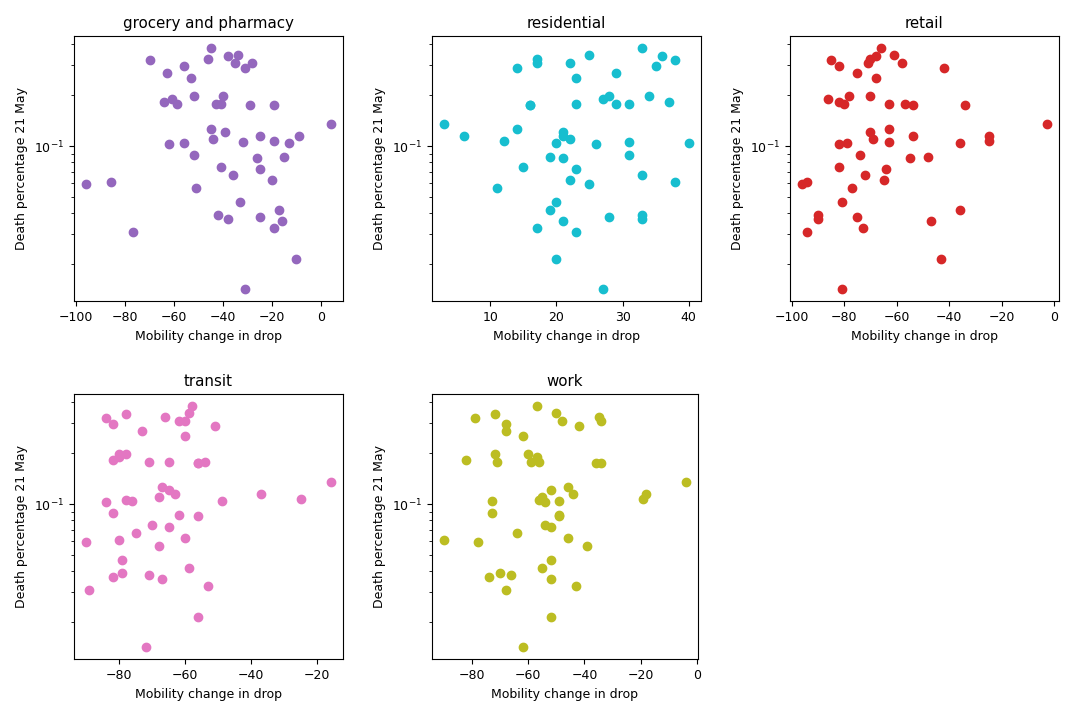
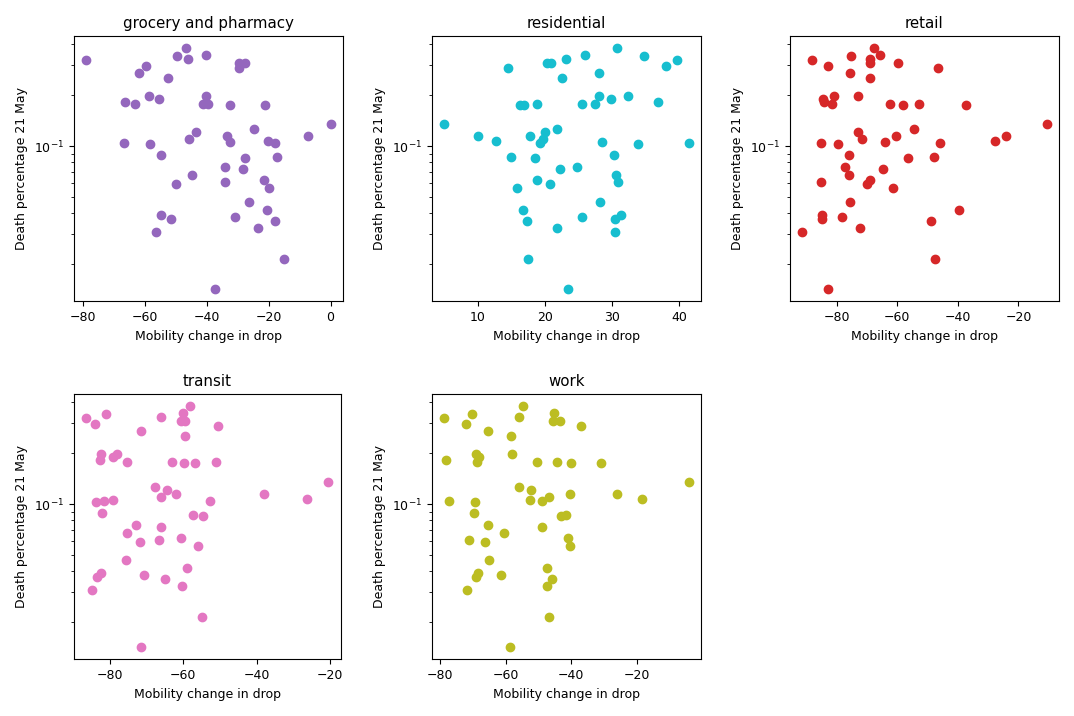
fixed sliding 7

diff --git a/simulations/drop_and_deaths/analyze_drop.py b/simulations/drop_and_deaths/analyze_drop.py
@@ -50,11 +50,11 @@ def construct_drop(epidemic_data, mobility_data, drop_dates, outdir):
         #Save fetched countries, death percentages and mobility data
         fetched_countries = []
         death_percentage = []
-        retail = []
-        grocery = []
-        transit = []
-        work = []
-        residential = []
+        fetched_mobility = {'retail_and_recreation_percent_change_from_baseline':[],
+                           'grocery_and_pharmacy_percent_change_from_baseline':[],
+                           'transit_stations_percent_change_from_baseline':[],
+                           'workplaces_percent_change_from_baseline':[],
+                           'residential_percent_change_from_baseline':[]}
 
         #Save start dates for epidemic data
         start_dates = []
@@ -94,13 +94,16 @@ def construct_drop(epidemic_data, mobility_data, drop_dates, outdir):
             #drop_dates = identify_drop(country_mobility_data, country, drop_dates, covariate_names, outdir)
 
             #Get date for after drop and corresponding mobility values
-            country_drop_date = drop_dates[drop_dates['Country']==country]['date'].values[0]
-            mobility_levels = country_mobility_data[country_mobility_data['date']==country_drop_date]
-            retail.append(mobility_levels['retail_and_recreation_percent_change_from_baseline'].values[0])
-            grocery.append(mobility_levels['grocery_and_pharmacy_percent_change_from_baseline'].values[0])
-            transit.append(mobility_levels['transit_stations_percent_change_from_baseline'].values[0])
-            work.append(mobility_levels['workplaces_percent_change_from_baseline'].values[0])
-            residential.append(mobility_levels['residential_percent_change_from_baseline'].values[0])
+            country_drop_day = drop_dates[drop_dates['Country']==country]['after_drop'].values[0]
+            for name in covariate_names:
+                #construct a 1-week sliding average
+                data = np.array(country_mobility_data[name])
+                y = np.zeros(len(country_mobility_data))
+                for i in range(7,len(data)):
+                    y[i]=np.average(data[i-7:i])
+
+                fetched_mobility[name].append(y[country_drop_day])
+
             #Get index for first death
             death_start = np.where(country_deaths>0)[0][0]
             percent_dead_last_week = np.zeros(len(country_deaths))
@@ -130,11 +133,12 @@ def construct_drop(epidemic_data, mobility_data, drop_dates, outdir):
         drop_df = pd.DataFrame() #Save drop values
         drop_df['Country'] = fetched_countries
         drop_df['Death percentage'] = death_percentage
-        drop_df['retail'] = retail
-        drop_df['grocery and pharmacy'] = grocery
-        drop_df['transit'] =transit
-        drop_df['work'] = work
-        drop_df['residential'] = residential
+        drop_df['retail'] = fetched_mobility['retail_and_recreation_percent_change_from_baseline']
+        drop_df['grocery and pharmacy'] = fetched_mobility['grocery_and_pharmacy_percent_change_from_baseline']
+        drop_df['transit'] = fetched_mobility['transit_stations_percent_change_from_baseline']
+        drop_df['work'] = fetched_mobility['workplaces_percent_change_from_baseline']
+        drop_df['residential'] = fetched_mobility['residential_percent_change_from_baseline']
+        pdb.set_trace()
         drop_df.to_csv('drop_df.csv')
 
         #plot relationships
@@ -168,6 +172,7 @@ def identify_drop(country_mobility_data, country, drop_dates, covariate_names, o
     fig.tight_layout()
     fig.savefig(outdir+'identify_drop/'+country+'_slide7.png',  format='png')
     plt.close()
+
     return drop_dates
 
 def plot_death_vs_drop(drop_df, outdir):
